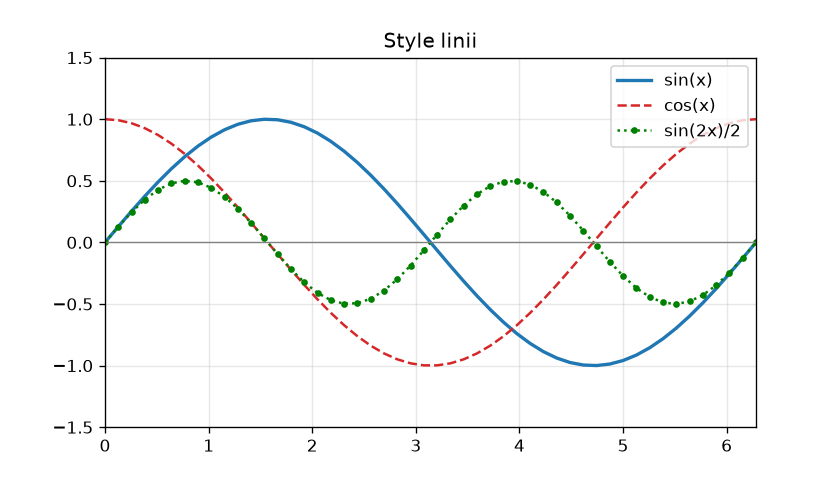
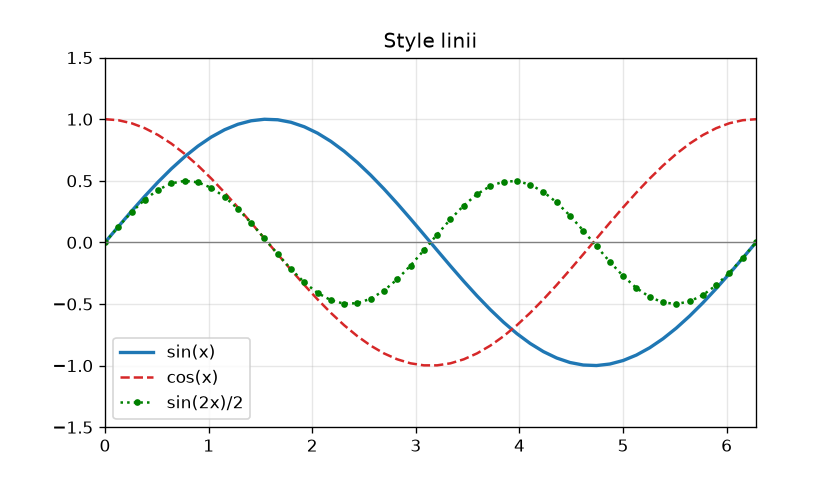
Move the legend and the minimum label off the curves in chapter 14
style-linii.py places the legend in the lower left corner and
adnotacje.py puts the "minimum" label at (4.9, 0.2); both figures are
regenerated with the same script and settings as before.

diff --git a/docs/14-numpy-matplotlib/matplotlib-podstawy.md b/docs/14-numpy-matplotlib/matplotlib-podstawy.md
@@ -74,7 +74,7 @@ ax.axhline(0, color="gray", linewidth=0.8)
 ax.set_xlim(0, 2 * np.pi)
 ax.set_ylim(-1.5, 1.5)
 ax.grid(True, alpha=0.3)
-ax.legend(loc="upper right")
+ax.legend(loc="lower left")
 ax.set_title("Style linii")
 fig.savefig("style-linii.png", dpi=120)
 
@@ -117,7 +117,7 @@ ax.text(np.pi / 2, 1.05, "maksimum", ha="center")
 ax.annotate(
     "minimum",
     xy=(3 * np.pi / 2, -1),
-    xytext=(5.2, -0.4),
+    xytext=(4.9, 0.2),
     arrowprops={"arrowstyle": "->"},
 )
 ax.text(
